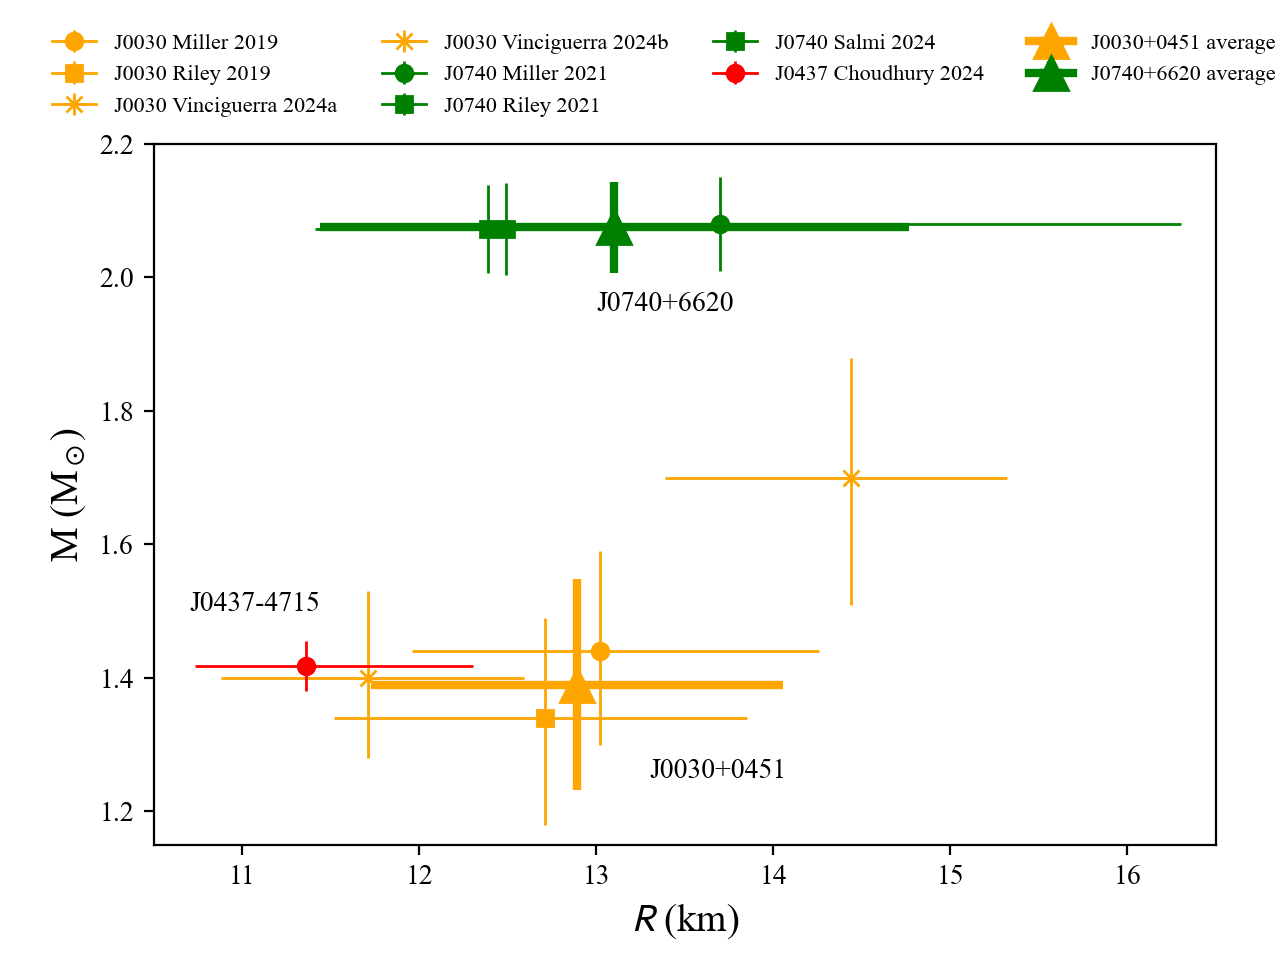
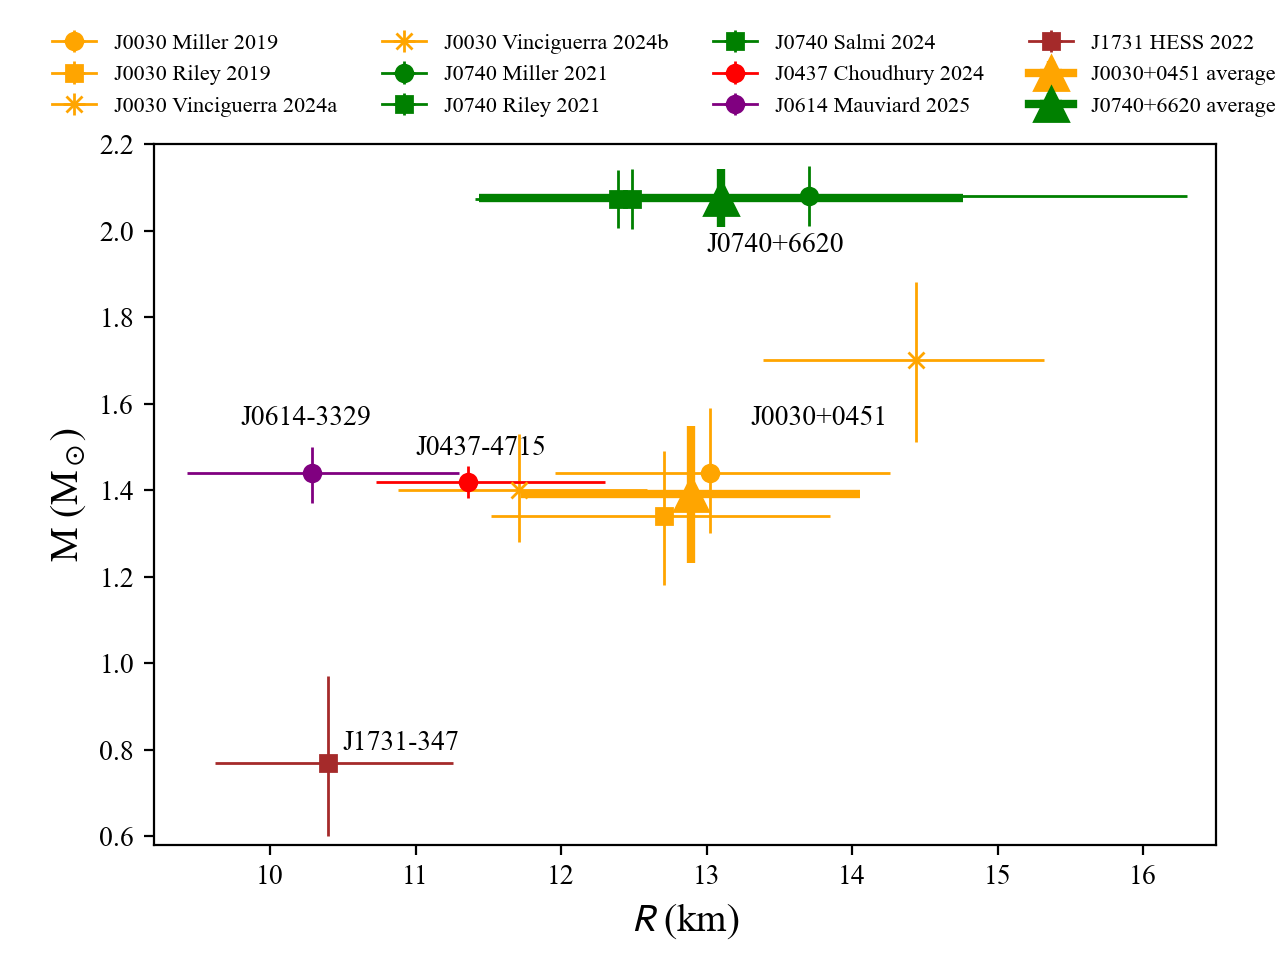
Improve MR data and plot

diff --git a/version-1.0/nucleardatapy/astro/setup_mr.py b/version-1.0/nucleardatapy/astro/setup_mr.py
@@ -13,7 +13,7 @@ def mr_sources():
     #
     if nuda.env.verb: print("\nEnter astro_mr()")
     #
-    sources = [ 'J0030+0451', 'J0740+6620', 'J0437-4715' ]
+    sources = [ 'J0030+0451', 'J0740+6620', 'J0437-4715', 'J0614-3329', 'J1731-347' ]
     #
     #print('sources available in the toolkit:',sources)
     sources_lower = [ item.lower() for item in sources ]
@@ -41,6 +41,10 @@ def mr_obss( source ):
     elif source.lower()=='j0740+6620':
         obss = [ 1, 2, 3 ]
     elif source.lower()=='j0437-4715':
+        obss = [ 1 ]
+    elif source.lower()=='j0614-3329':
+        obss = [ 1 ]
+    elif source.lower()=='j1731-347':
         obss = [ 1 ]
     #
     #print('Observations available in the toolkit:',obss)
@@ -96,7 +100,7 @@ class setupMR():
             file_in = nuda.param.path_data+'astro/NICER/J0030+0451.dat'
             if obs==1:
                 #: Attribute providing the full reference to the paper to be citted.
-                self.ref='M.C. Miller, F.K. Lamb, A.J. Dittmann, aet al., ApJL 887, L24 (2019).'
+                self.ref='M.C. Miller, F.K. Lamb, A.J. Dittmann, aet al., ApJL 887, L24 (2019)'
                 #: Attribute providing the label the data is references for figures.
                 self.label = 'J0030 Miller 2019'
                 #: Attribute providing additional notes about the observation.
@@ -104,7 +108,7 @@ class setupMR():
                 self.marker = 'o'
             elif obs==2:
                 #: Attribute providing the full reference to the paper to be citted.
-                self.ref='T.E. Riley, A.L. Watts, S. Bogdanov, P.S. Ray, et al., ApJ 887, L21 (2019).'
+                self.ref='T.E. Riley, A.L. Watts, S. Bogdanov, P.S. Ray, et al., ApJ 887, L21 (2019)'
                 #: Attribute providing the label the data is references for figures.
                 self.label = 'J0030 Riley 2019'
                 #: Attribute providing additional notes about the observation.
@@ -112,7 +116,7 @@ class setupMR():
                 self.marker = 's'
             elif obs==3:
                 #: Attribute providing the full reference to the paper to be citted.
-                self.ref='S. Vinciguerra, T. Salmi, A.L. Watts, D. Choudhury, et al., ApJ 961, 62 (2024).'
+                self.ref='S. Vinciguerra, T. Salmi, A.L. Watts, D. Choudhury, et al., ApJ 961, 62 (2024)'
                 #: Attribute providing the label the data is references for figures.
                 self.label = 'J0030 Vinciguerra 2024a'
                 #: Attribute providing additional notes about the observation.
@@ -120,7 +124,7 @@ class setupMR():
                 self.marker = 'x'
             elif obs==4:
                 #: Attribute providing the full reference to the paper to be citted.
-                self.ref='S. Vinciguerra, T. Salmi, A.L. Watts, D. Choudhury, et al., ApJ 961, 62 (2024).'
+                self.ref='S. Vinciguerra, T. Salmi, A.L. Watts, D. Choudhury, et al., ApJ 961, 62 (2024)'
                 #: Attribute providing the label the data is references for figures.
                 self.label = 'J0030 Vinciguerra 2024b'
                 #: Attribute providing additional notes about the observation.
@@ -130,7 +134,7 @@ class setupMR():
             file_in = nuda.param.path_data+'astro/NICER/J0740+6620.dat'
             if obs==1:
                 #: Attribute providing the full reference to the paper to be citted.
-                self.ref='M.C. Miller, F.K. Lamb, A.J. Dittmann, S. Bogdanov, et al., ApJL 918, L28 (2021).'
+                self.ref='M.C. Miller, F.K. Lamb, A.J. Dittmann, S. Bogdanov, et al., ApJL 918, L28 (2021)'
                 #: Attribute providing the label the data is references for figures.
                 self.label = 'J0740 Miller 2021'
                 #: Attribute providing additional notes about the observation.
@@ -138,7 +142,7 @@ class setupMR():
                 self.marker = 'o'
             elif obs==2:
                 #: Attribute providing the full reference to the paper to be citted.
-                self.ref='T.E. Riley, A.L. Watts, P.S. Ray, S. Bogdanov, et al., ApJL 918, L27 (2021).'
+                self.ref='T.E. Riley, A.L. Watts, P.S. Ray, S. Bogdanov, et al., ApJL 918, L27 (2021)'
                 #: Attribute providing the label the data is references for figures.
                 self.label = 'J0740 Riley 2021'
                 #: Attribute providing additional notes about the observation.
@@ -146,7 +150,7 @@ class setupMR():
                 self.marker = 's'
             elif obs==3:
                 #: Attribute providing the full reference to the paper to be citted.
-                self.ref='T. Salmi, D. Choudhury, Y. Kini, T.E. Riley et al., ApJ 974, 294 (2024).'
+                self.ref='T. Salmi, D. Choudhury, Y. Kini, T.E. Riley et al., ApJ 974, 294 (2024)'
                 #: Attribute providing the label the data is references for figures.
                 self.label = 'J0740 Salmi 2024'
                 #: Attribute providing additional notes about the observation.
@@ -156,12 +160,32 @@ class setupMR():
             file_in = nuda.param.path_data+'astro/NICER/J0437-4715.dat'
             if obs==1:
                 #: Attribute providing the full reference to the paper to be citted.
-                self.ref='D. Choudhury, T. Salmi, S. Vinciguerra, T.E. Riley, et al., ApJL 971, L20 (2024).'
+                self.ref='D. Choudhury, T. Salmi, S. Vinciguerra, T.E. Riley, et al., ApJL 971, L20 (2024)'
                 #: Attribute providing the label the data is references for figures.
                 self.label = 'J0437 Choudhury 2024'
                 #: Attribute providing additional notes about the observation.
                 self.note = "write notes about this observation."
                 self.marker = 'o'
+        elif source.lower()=='j0614-3329':
+            file_in = nuda.param.path_data+'astro/NICER/J0614-3329.dat'
+            if obs==1:
+                #: Attribute providing the full reference to the paper to be citted.
+                self.ref='L. Mauviard, S. Guillot, T. Salmi, D. Choudhury, et al., arXiv:2506.14883'
+                #: Attribute providing the label the data is references for figures.
+                self.label = 'J0614 Mauviard 2025'
+                #: Attribute providing additional notes about the observation.
+                self.note = "write notes about this observation."
+                self.marker = 'o'
+        elif source.lower()=='j1731-347':
+            file_in = nuda.param.path_data+'astro/HESS/J1731-347.dat'
+            if obs==1:
+                #: Attribute providing the full reference to the paper to be citted.
+                self.ref='V. Doroshenko, V. Suleimanov, G. P\"uhlhofer and A. Santangelo, Nature Astronomy volume 6, pages 1444–1451 (2022)'
+                #: Attribute providing the label the data is references for figures.
+                self.label = 'J1731 HESS 2022'
+                #: Attribute providing additional notes about the observation.
+                self.note = "write notes about this observation."
+                self.marker = 's'
         #
         #: Attribute the observational mass of the source.
         self.mass = None
@@ -184,24 +208,49 @@ class setupMR():
             for line in file:
                 if '#' in line: continue
                 ele = line.split(',')
-                #print('ele[0]:',ele[0],' obs:',obs,' ele[:]:',ele[:])
+                #print('ele[0]:',ele[0],' obs:',obs)
+                #print('ele[:]:',ele[:])
                 if int(ele[0]) == obs:
-                    self.rad = float(ele[1])
-                    self.rad_sig_up = float(ele[2])
-                    self.rad_sig_lo = float(ele[3])
-                    self.mass = float(ele[4])
-                    self.mass_sig_up = float(ele[5])
-                    self.mass_sig_lo = float(ele[6])
-                    #print('ele[7]:',ele[7],' len:',len(ele[7]))
-                    if len(ele[7])>1:
+                    try:
+                        self.rad = float(ele[1])
+                        self.rad_sig_up = float(ele[2])
+                        self.rad_sig_lo = float(ele[3])
+                    except ValueError:
+                        self.rad = 0.0
+                        self.rad_sig_up = 0.0
+                        self.rad_sig_lo = 0.0
+                    try:
+                        self.mass = float(ele[4])
+                        self.mass_sig_up = float(ele[5])
+                        self.mass_sig_lo = float(ele[6])
+                    except ValueError:
+                        self.mass = 0.0
+                        self.mass_sig_up = 0.0
+                        self.mass_sig_lo = 0.0
+                    #print('ele[7]:',ele[7],isinstance(ele[7].replace(' ',''), (int, float)),' len:',len(ele[7]))
+                    #print('ele[10]:',ele[10],isinstance(ele[10].replace(' ',''), (int, float)))
+                    try:
                         self.comp = float(ele[7])
                         self.comp_sig_up = float(ele[8])
                         self.comp_sig_lo = float(ele[9])
-                    else:
+                    except ValueError:
                         self.comp = 0.0
-                        self.comp_sig_up = 1.0
-                        self.comp_sig_lo = 1.0
-                    self.latexCite = ele[10].replace('\n','').replace(' ','')
+                        self.comp_sig_up = 0.0
+                        self.comp_sig_lo = 0.0
+                    try:
+                        self.spin = float(ele[10])
+                    except ValueError:
+                        self.spin = 0.0
+#                    if len(ele[7])>1:
+#                        self.comp = float(ele[7])
+#                        self.comp_sig_up = float(ele[8])
+#                        self.comp_sig_lo = float(ele[9])
+#                    else:
+#                        self.comp = 0.0
+#                        self.comp_sig_up = 1.0
+#                        self.comp_sig_lo = 1.0
+                    self.latexCite = ele[11].replace('\n','').replace(' ','')
+                    #print('outputs:',self.rad,self.mass,self.comp,self.spin,self.latexCite)
         #
         # compute compactness
         #
@@ -318,8 +367,8 @@ class setupMRAverage():
         # construct the distribution of observations in ay
         ar = np.linspace(rmin,rmax,300); ar=np.array( ar )
         am = np.linspace(mmin,mmax,300); am=np.array( am )
-        print('cmax:',cmax)
-        print('cmin:',cmin)
+        #print('cmax:',cmax)
+        #print('cmin:',cmin)
         ac = np.linspace(cmin,cmax,300); ac=np.array( ac )
         #ac = 0.5 * nuda.cst.rshsol_si / 1.e3 * am / ar
         ayr = np.zeros(300); ayr=np.array( ayr )
@@ -341,12 +390,36 @@ class setupMRAverage():
         stdr = sum ( ayr*ar**2 )
         stdm = sum ( aym*am**2 )
         stdc = sum ( ayc*ac**2 )
-        self.rad_cen = cenr / nor
-        self.mass_cen = cenm / nom
-        self.comp_cen = cenc / noc
-        self.rad_sig_std = round( math.sqrt( stdr/nor - self.rad_cen**2 ), 3 )
-        self.mass_sig_std = round( math.sqrt( stdm/nom - self.mass_cen**2 ), 3 )
-        self.comp_sig_std = round( math.sqrt( stdc/noc - self.comp_cen**2 ), 3 )
+        try:
+            if nor != 0.0:            
+                self.rad_cen = cenr / nor
+                self.rad_sig_std = round( math.sqrt( stdr/nor - self.rad_cen**2 ), 3 )
+            else:
+                self.rad_cen = 0.0
+                self.rad_sig_std = 0.0
+        except ZeroDivisionError:
+            self.rad_cen = 0.0
+            self.rad_sig_std = 0.0
+        try:
+            if nom != 0.0:
+                self.mass_cen = cenm / nom
+                self.mass_sig_std = round( math.sqrt( stdm/nom - self.mass_cen**2 ), 3 )
+            else:
+                self.mass_cen = 0.0
+                self.mass_sig_std = 0.0
+        except ZeroDivisionError:
+            self.mass_cen = 0.0
+            self.mass_sig_std = 0.0
+        try:
+            if noc != 0.0:
+                self.comp_cen = cenc / noc
+                self.comp_sig_std = round( math.sqrt( stdc/noc - self.comp_cen**2 ), 3 )
+            else:
+                self.comp_cen = 0.0
+                self.comp_sig_std = 0.0
+        except ZeroDivisionError:
+            self.comp_cen = 0.0
+            self.comp_sig_std = 0.0
         self.rad_cen = round( self.rad_cen, 3)
         self.mass_cen = round( self.mass_cen, 3)
         self.comp_cen = round( self.comp_cen, 3)
@@ -397,11 +470,20 @@ def gauss( ax, cent, sig_up, sig_lo ):
     gauss = []
     for x in ax:
         if x < cent: 
-            z = ( x - cent ) / sig_lo
+            if sig_lo != 0.0:
+                z = ( x - cent ) / sig_lo
+            else:
+                z= x * 0.0
             norm = sig_lo * fac
         else:
-            z = ( x - cent ) / sig_up
+            if sig_up != 0.0:
+                z = ( x - cent ) / sig_up
+            else:
+                z= x * 0.0
             norm = sig_up * fac
-        gauss.append( math.exp( -0.5*z**2 ) / norm )
+        if norm != 0.0:
+            gauss.append( math.exp( -0.5*z**2 ) / norm )
+        else:
+            gauss.append( 0.0 ) 
     return gauss
 

diff --git a/version-1.0/nucleardatapy/fig/astro_setupMR_fig.py b/version-1.0/nucleardatapy/fig/astro_setupMR_fig.py
@@ -26,8 +26,8 @@ def astro_setupMR_fig( pname, sources, sources_av ):
     #
     axs.set_xlabel(r'$R$ (km)',fontsize='14')
     axs.set_ylabel(r'M (M$_\odot$)',fontsize='14')
-    axs.set_xlim([10.5, 16.5])
-    axs.set_ylim([1.15, 2.2])
+    axs.set_xlim([9.2, 16.5])
+    axs.set_ylim([0.58, 2.2])
     #
     isource = 1
     xlabel = []
@@ -75,11 +75,15 @@ def astro_setupMR_fig( pname, sources, sources_av ):
     for source in sources:
         print('source:',source)
         if source.lower() == 'j0030+0451':
-            axs.text(13.3,1.25,'J0030+0451')
+            axs.text(13.3,1.55,'J0030+0451')
         elif source.lower() == 'j0740+6620':
             axs.text(13,1.95,'J0740+6620')
         elif source.lower() == 'j0437-4715':
-            axs.text(10.7,1.5,'J0437-4715')
+            axs.text(11.0,1.48,'J0437-4715')
+        elif source.lower() == 'j0614-3329':
+            axs.text(9.8,1.55,'J0614-3329')
+        elif source.lower() == 'j1731-347':
+            axs.text(10.5,0.8,'J1731-347')
     #
     #axs.legend(loc='upper left',fontsize='8', ncol=2)
     axs.legend(loc='lower center',bbox_to_anchor=(0.48,1.01),columnspacing=2,fontsize='8',ncol=4,frameon=False)

diff --git a/version-1.0/nucleardatapy_samples/astro_setupMR_script.py b/version-1.0/nucleardatapy_samples/astro_setupMR_script.py
@@ -12,7 +12,8 @@ def main():
     sources, sources_lower = nuda.astro.mr_sources( )
     print('Complete list of available sources:', sources )
     #
-    sources = [ 'J0030+0451', 'J0740+6620', 'J0437-4715' ]
+    #sources = [ 'J0030+0451', 'J0740+6620', 'J0437-4715' ]
+    sources = [ 'J0030+0451', 'J0740+6620', 'J0437-4715', 'J0614-3329', 'J1731-347' ]
     #
     print('sources considered:',sources)
     #
@@ -31,6 +32,7 @@ def main():
     #
     # Average
     #
+    #print('')
     print('averages:')
     #
     sources_av = [ 'J0030+0451', 'J0740+6620' ]

diff --git a/version-1.0/nucleardatapy_samples/astro_setupMR_plot.py b/version-1.0/nucleardatapy_samples/astro_setupMR_plot.py
@@ -16,7 +16,8 @@ def main():
     sources, sources_lower = nuda.astro.mr_sources( )
     print('Complete list of available sources:',sources)
     #
-    sources = [ 'J0030+0451', 'J0740+6620', 'J0437-4715' ]
+    #sources = [ 'J0030+0451', 'J0740+6620', 'J0437-4715' ]
+    sources = [ 'J0030+0451', 'J0740+6620', 'J0437-4715', 'J0614-3329', 'J1731-347' ]
     sources_av = [ 'J0030+0451', 'J0740+6620' ]
     #
     print('sources considered:',sources)
